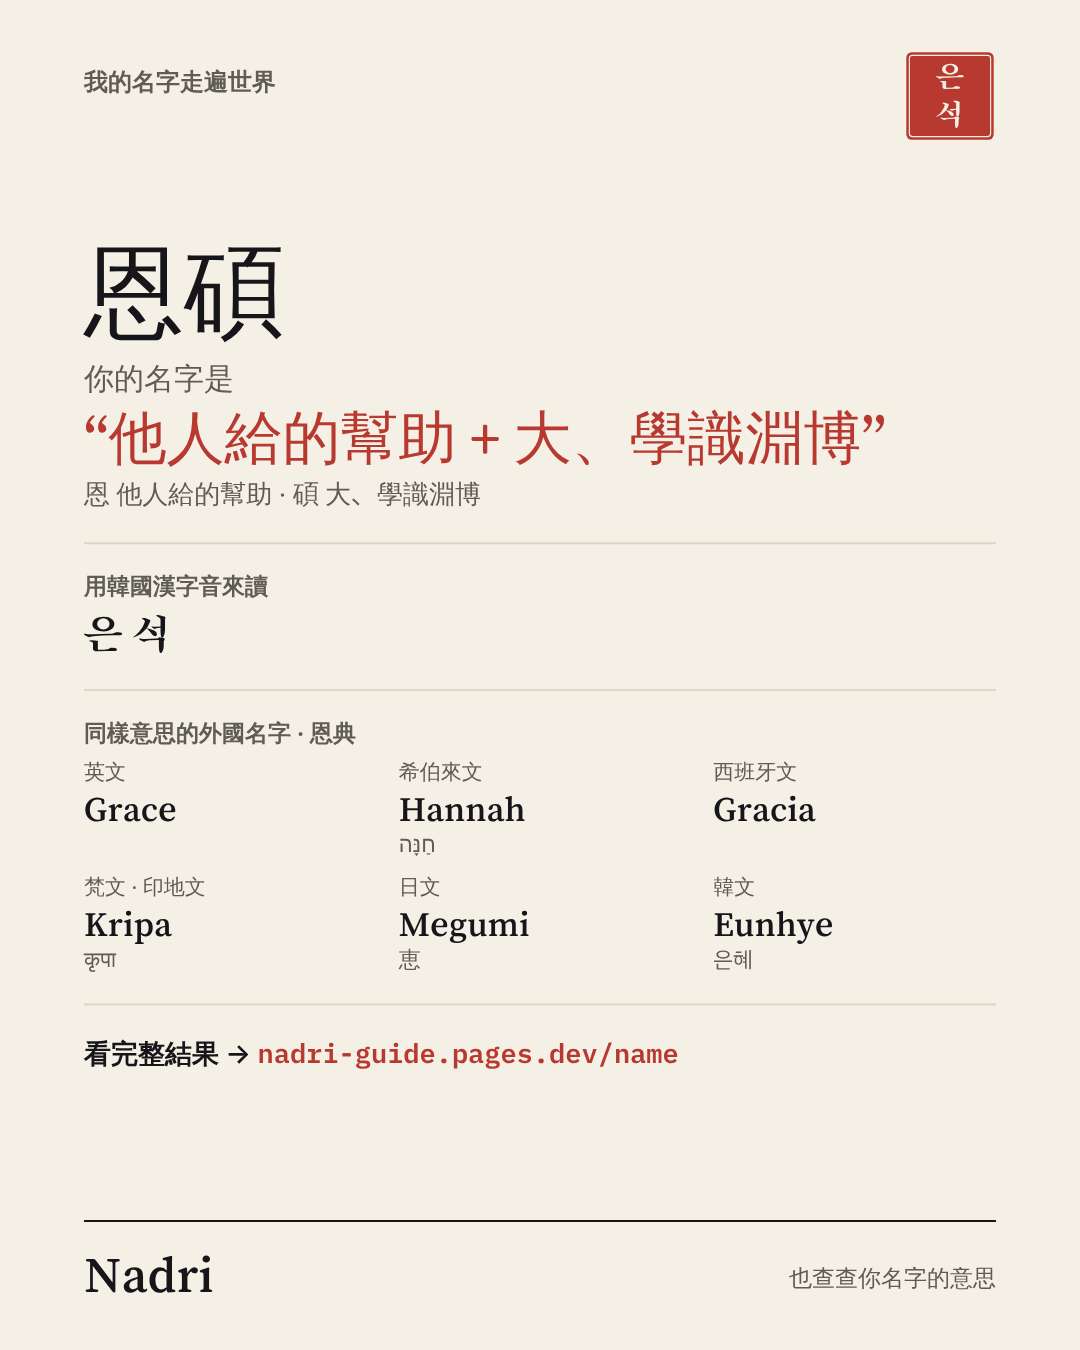
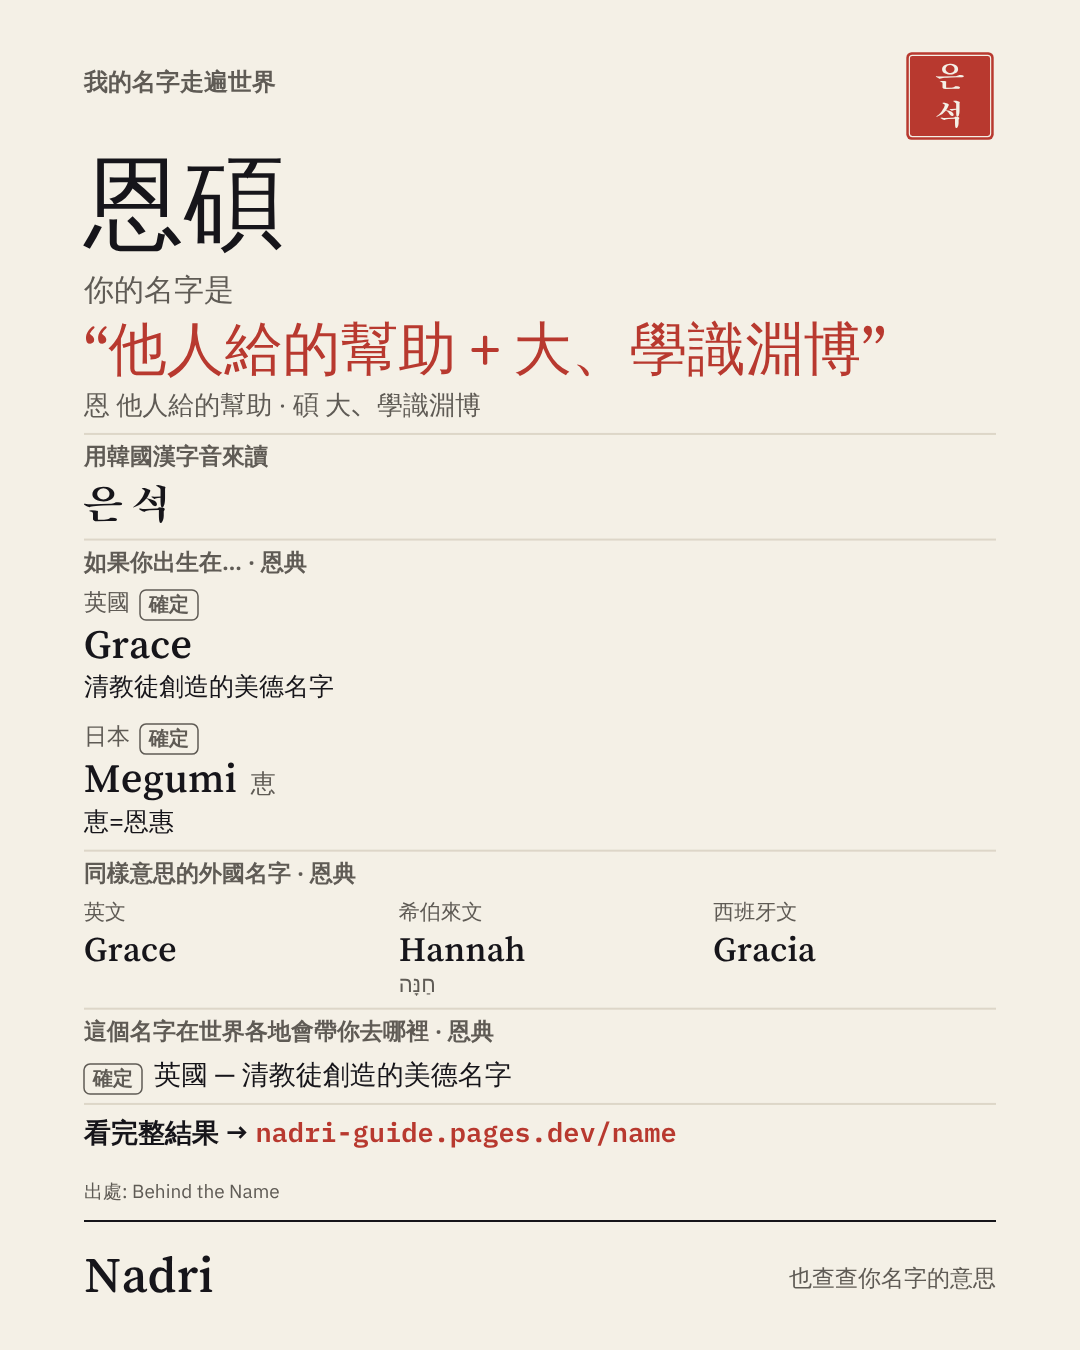
이름 도구: 세계 항목 은혜(Grace·Megumi·Hannah)·아름다움(Kallisto·Bella)·용기(Isamu·Yong)·올리브(올리브관·Oliva·Olivier), 지역 이스라엘; 카드 8장 갱신
Claude-Session: https://claude.ai/code/session_01SuqWfEwhdH8js6VToC8bPd

diff --git a/static/name-world.js b/static/name-world.js
@@ -19,6 +19,7 @@ window.NADRI_REGIONS = {
   VA: ['🇻🇦', { ko: '바티칸', en: 'Vatican City', ja: 'バチカン', zh: '梵蒂岡' }],
   GR: ['🇬🇷', { ko: '그리스', en: 'Greece', ja: 'ギリシャ', zh: '希臘' }],
   IR: ['🇮🇷', { ko: '이란', en: 'Iran', ja: 'イラン', zh: '伊朗' }],
+  IL: ['🇮🇱', { ko: '이스라엘', en: 'Israel', ja: 'イスラエル', zh: '以色列' }],
   TR: ['🇹🇷', { ko: '튀르키예', en: 'Türkiye', ja: 'トルコ', zh: '土耳其' }],
   UA: ['🇺🇦', { ko: '우크라이나', en: 'Ukraine', ja: 'ウクライナ', zh: '烏克蘭' }],
   RU: ['🇷🇺', { ko: '러시아', en: 'Russia', ja: 'ロシア', zh: '俄羅斯' }],
@@ -499,10 +500,80 @@ window.NADRI_REGIONS = {
         en: 'Boseong County in South Korea is famous for its green tea leaves, with 26.71 hectares of land dedicated to growing them.',
         ja: '韓国の宝城(ポソン)郡は緑茶の葉で有名。26.71ヘクタールの土地で緑茶を育てています。',
         zh: '韓國寶城郡以綠茶葉聞名,有 26.71 公頃的土地種植綠茶。' }
+    ],
+    /* 2026-11-28: grace (恩), beauty (妍), brave (豪), olive (Olivia) for the Taiwan and US name cards. Behind the Name name pages and Wikipedia read 2026-11-28. */
+    grace: [
+      { r: 'GB', n: 'Grace', g: { ko: '청교도가 만든 미덕 이름', en: 'a Puritan virtue name', ja: 'ピューリタンが作った美徳の名前', zh: '清教徒創造的美德名字' }, c: 'h', d: '2026-11-28',
+        s: [['Behind the Name: Grace', 'https://www.behindthename.com/name/grace']],
+        ko: 'Grace는 영어 단어 grace(라틴어 gratia)에서 온 이름으로, 17세기 청교도가 만든 \'미덕 이름\' 가운데 하나예요.',
+        en: 'Grace comes from the English word grace (Latin gratia). It was one of the virtue names created in the 17th century by the Puritans.',
+        ja: 'Graceは英語のgrace(ラテン語gratia)から。17世紀にピューリタンが作った「美徳の名前」のひとつです。',
+        zh: 'Grace 來自英文 grace(拉丁文 gratia),是 17 世紀清教徒創造的「美德名字」之一。' },
+      { r: 'JP', n: 'Megumi', nn: '恵', g: { ko: '恵(메구미) = 은혜·혜택', en: '恵, favour, benefit', ja: '恵(めぐみ)', zh: '恵=恩惠' }, c: 'h', d: '2026-11-28',
+        s: [['Behind the Name: Megumi', 'https://www.behindthename.com/name/megumi']],
+        ko: 'Megumi는 일본어 恵(메구미, \'은혜·혜택\')로 쓰는 이름이에요.',
+        en: 'Megumi is written with Japanese 恵 (megumi), meaning "favour, benefit".',
+        ja: 'Megumiは「恵(めぐみ)」と書く名前。',
+        zh: 'Megumi 寫作日文的「恵」(めぐみ),意思是恩惠、好處。' },
+      { r: 'IL', n: 'Hannah', nn: 'חַנָּה', g: { ko: '구약의 사무엘 어머니', en: 'mother of Samuel, Old Testament', ja: '旧約聖書・サムエルの母', zh: '舊約聖經・撒母耳的母親' }, c: 'legend', d: '2026-11-28',
+        s: [['Behind the Name: Hannah', 'https://www.behindthename.com/name/hannah']],
+        ko: 'Hannah는 히브리어로 \'은총·은혜\'라는 뜻이에요. 구약에서 오래 아이가 없다가 축복을 받고 사무엘을 낳은 여인의 이름이에요.',
+        en: 'Hannah is from Hebrew, meaning "favour, grace". In the Old Testament, she remained childless until a blessing, then bore Samuel.',
+        ja: 'Hannahはヘブライ語で「恵み・好意」。旧約聖書では、長く子どもがいなかったあと祝福を受けてサムエルを産んだ女性の名前です。',
+        zh: 'Hannah 在希伯來文是「恩寵、恩惠」。舊約裡,她長久沒有孩子,蒙祝福後生下撒母耳。' }
+    ],
+    beauty: [
+      { r: 'GR', n: 'Kallisto', nn: 'Καλλιστώ', g: { ko: '큰곰자리가 된 님프', en: 'the nymph who became the Great Bear', ja: '大熊座になったニンフ', zh: '變成大熊座的寧芙' }, c: 'legend', d: '2026-11-28',
+        s: [['Behind the Name: Kallisto', 'https://www.behindthename.com/name/kallisto'], ['Wikipedia: Callisto (mythology)', 'https://en.wikipedia.org/wiki/Callisto_(mythology)']],
+        ko: 'Kallisto는 그리스어로 \'가장 아름다운\'이라는 뜻이에요. 그리스 신화에서 제우스의 사랑을 받은 님프로, 헤라가 곰으로 바꾼 뒤 큰곰자리가 됐다고 해요.',
+        en: 'Kallisto means "most beautiful" in Greek. In Greek myth she was a nymph loved by Zeus, changed into a she-bear by Hera, who became the Great Bear constellation.',
+        ja: 'Kallistoはギリシャ語で「最も美しい」。ギリシャ神話ではゼウスに愛されたニンフで、ヘラに熊に変えられ、大熊座になったと伝わります。',
+        zh: 'Kallisto 在希臘文是「最美麗的」。希臘神話裡她是被宙斯所愛的寧芙,被赫拉變成母熊,後來成了大熊座。' },
+      { r: 'IT', n: 'Bella', g: { ko: '이탈리아어 bella = 아름다운', en: 'Italian bella, beautiful', ja: 'イタリア語 bella=美しい', zh: '義大利文 bella=美麗' }, c: 'h', d: '2026-11-28',
+        s: [['Behind the Name: Bella', 'https://www.behindthename.com/name/bella']],
+        ko: 'Bella는 Isabella 같은 이름의 줄임말이면서, 이탈리아어 bella(\'아름다운\')와도 이어진 이름이에요.',
+        en: 'Bella is a short form of Isabella and similar names, and is also associated with the Italian word bella, "beautiful".',
+        ja: 'BellaはIsabellaなどの短縮形で、イタリア語のbella(美しい)とも結びついた名前です。',
+        zh: 'Bella 是 Isabella 等名字的簡稱,也和義大利文 bella(美麗)連在一起。' }
+    ],
+    brave: [
+      { r: 'JP', n: 'Isamu', nn: '勇', g: { ko: '勇(이사무) = 용감한', en: '勇, brave', ja: '勇(いさむ)', zh: '勇=勇敢' }, c: 'h', d: '2026-11-28',
+        s: [['Behind the Name: Isamu', 'https://www.behindthename.com/name/isamu']],
+        ko: 'Isamu는 일본어 勇(이사무, \'용감한\')로 쓰는 이름이에요.',
+        en: 'Isamu is written with Japanese 勇 (isamu), meaning "brave".',
+        ja: 'Isamuは「勇(いさむ)」と書く名前。',
+        zh: 'Isamu 寫作日文的「勇」(いさむ),意思是勇敢。' },
+      { r: 'TW', n: 'Yong', nn: '勇', g: { ko: '중국어로 읽은 勇', en: '勇 read in Chinese', ja: '中国語読みの「勇」', zh: '勇的華語讀音' }, c: 'h', d: '2026-11-28',
+        s: [['Behind the Name: Isamu (other readings)', 'https://www.behindthename.com/name/isamu']],
+        ko: '같은 글자 勇을 중국어로 읽으면 Yong(융), 한국어로 읽어도 Yong(용)이에요.',
+        en: 'The same character 勇 is read Yong in Chinese, and Yong in Korean too.',
+        ja: '同じ「勇」は中国語でYong、韓国語でもYong(ヨン)と読みます。',
+        zh: '同一個「勇」字,華語讀 Yong,韓語也讀 Yong(용)。' }
+    ],
+    olive: [
+      { r: 'GR', g: { ko: '고대 올림픽 우승자의 올리브관', en: 'olive wreath of the ancient Olympics', ja: '古代オリンピックのオリーブ冠', zh: '古代奧運的橄欖冠' }, c: 'h', d: '2026-11-28',
+        s: [['Wikipedia: Olive wreath', 'https://en.wikipedia.org/wiki/Olive_wreath']],
+        ko: '고대 올림픽의 우승 상은 올림피아에서 자란 야생 올리브나무 가지로 엮은 올리브관(코티노스)이었어요.',
+        en: 'The prize for winners at the ancient Olympic Games was the olive wreath (kotinos), woven from a wild olive tree that grew at Olympia.',
+        ja: '古代オリンピックの優勝者に贈られたのは、オリンピアの野生オリーブの枝で編んだオリーブ冠(コティノス)でした。',
+        zh: '古代奧運冠軍的獎品是橄欖冠(kotinos),用奧林匹亞的野生橄欖樹枝編成。' },
+      { r: 'IT', n: 'Oliva', g: { ko: '브레시아의 2세기 성인', en: 'a 2nd-century saint of Brescia', ja: 'ブレシアの2世紀の聖人', zh: '布雷西亞的 2 世紀聖人' }, c: 'm', d: '2026-11-28',
+        s: [['Behind the Name: names meaning olive', 'https://www.behindthename.com/names/meaning/olive']],
+        ko: 'Oliva는 라틴어로 \'올리브\'라는 뜻의 이름이고, 이탈리아 브레시아 출신 2세기 성인의 이름이었어요.',
+        en: 'Oliva is a Latin name meaning "olive". It was the name of a 2nd-century saint from Brescia.',
+        ja: 'Olivaはラテン語で「オリーブ」という名前。イタリア・ブレシアの2世紀の聖人の名前でした。',
+        zh: 'Oliva 是拉丁文「橄欖」的名字,也是義大利布雷西亞 2 世紀聖人的名字。' },
+      { r: 'FR', n: 'Olivier', g: { ko: '프랑스어로 올리브나무', en: 'French for olive tree', ja: 'フランス語でオリーブの木', zh: '法文的橄欖樹' }, c: 'h', d: '2026-11-28',
+        s: [['Behind the Name: names meaning olive', 'https://www.behindthename.com/names/meaning/olive']],
+        ko: 'Olivier는 Oliver의 프랑스어형이면서, 프랑스어 단어로 \'올리브나무\'예요.',
+        en: 'Olivier is the French form of Oliver, and also the French word for "olive tree".',
+        ja: 'OlivierはOliverのフランス語形で、フランス語で「オリーブの木」という単語でもあります。',
+        zh: 'Olivier 是 Oliver 的法文形式,也是法文的「橄欖樹」。' }
+
     ]
   };
   /* Korean readings of the names (shown in the Korean interface, loanword rules) */
-  var NK = { Minato: '미나토', Bandar: '반다르', Midori: '미도리', Chloe: '클로이', Estrella: '에스트레야', Stella: '스텔라', Hoshiko: '호시코', Xing: '싱', 'Hōkūleʻa': '호쿠레아', Najma: '나지마', Bilge: '빌게', Sophia: '소피아', Hui: '후이', Chie: '지에', Kazu: '가즈', Paz: '파스', Ping: '핑', Irene: '이레네', Lucia: '루시아', Jyoti: '조티', Svetlana: '스베틀라나', Nur: '누르', Guang: '광', Hikari: '히카리', Yu: '위', Lulu: '룰루', Tama: '다마', Margarita: '마르가리타', Moana: '모아나', Hai: '하이', Flora: '플로라', Hana: '하나', Pua: '푸아', William: '윌리엄', Alexander: '알렉산드로스', Mamoru: '마모루', Raja: '라자', Basil: '바실', Wang: '왕', Neve: '네베', Yuki: '유키', Xue: '쉐', Yue: '웨', Qamar: '카마르', Luna: '루나', Surya: '수리아', Hinata: '히나타', Helios: '헬리오스', Santiago: '산티아고', Jacques: '자크' };
+  var NK = { Kallisto: '칼리스토', Grace: '그레이스', Megumi: '메구미', Hannah: '해나', Bella: '벨라', Isamu: '이사무', Yong: '융', Oliva: '올리바', Olivier: '올리비에', Minato: '미나토', Bandar: '반다르', Midori: '미도리', Chloe: '클로이', Estrella: '에스트레야', Stella: '스텔라', Hoshiko: '호시코', Xing: '싱', 'Hōkūleʻa': '호쿠레아', Najma: '나지마', Bilge: '빌게', Sophia: '소피아', Hui: '후이', Chie: '지에', Kazu: '가즈', Paz: '파스', Ping: '핑', Irene: '이레네', Lucia: '루시아', Jyoti: '조티', Svetlana: '스베틀라나', Nur: '누르', Guang: '광', Hikari: '히카리', Yu: '위', Lulu: '룰루', Tama: '다마', Margarita: '마르가리타', Moana: '모아나', Hai: '하이', Flora: '플로라', Hana: '하나', Pua: '푸아', William: '윌리엄', Alexander: '알렉산드로스', Mamoru: '마모루', Raja: '라자', Basil: '바실', Wang: '왕', Neve: '네베', Yuki: '유키', Xue: '쉐', Yue: '웨', Qamar: '카마르', Luna: '루나', Surya: '수리아', Hinata: '히나타', Helios: '헬리오스', Santiago: '산티아고', Jacques: '자크' };
   Object.keys(W).forEach(function (k) { W[k].forEach(function (e) { if (!e.chain && !e.d) e.d = D; if (e.n && NK[e.n]) e.nk = NK[e.n]; }); });
   window.NADRI_WORLD = W;
 })();
